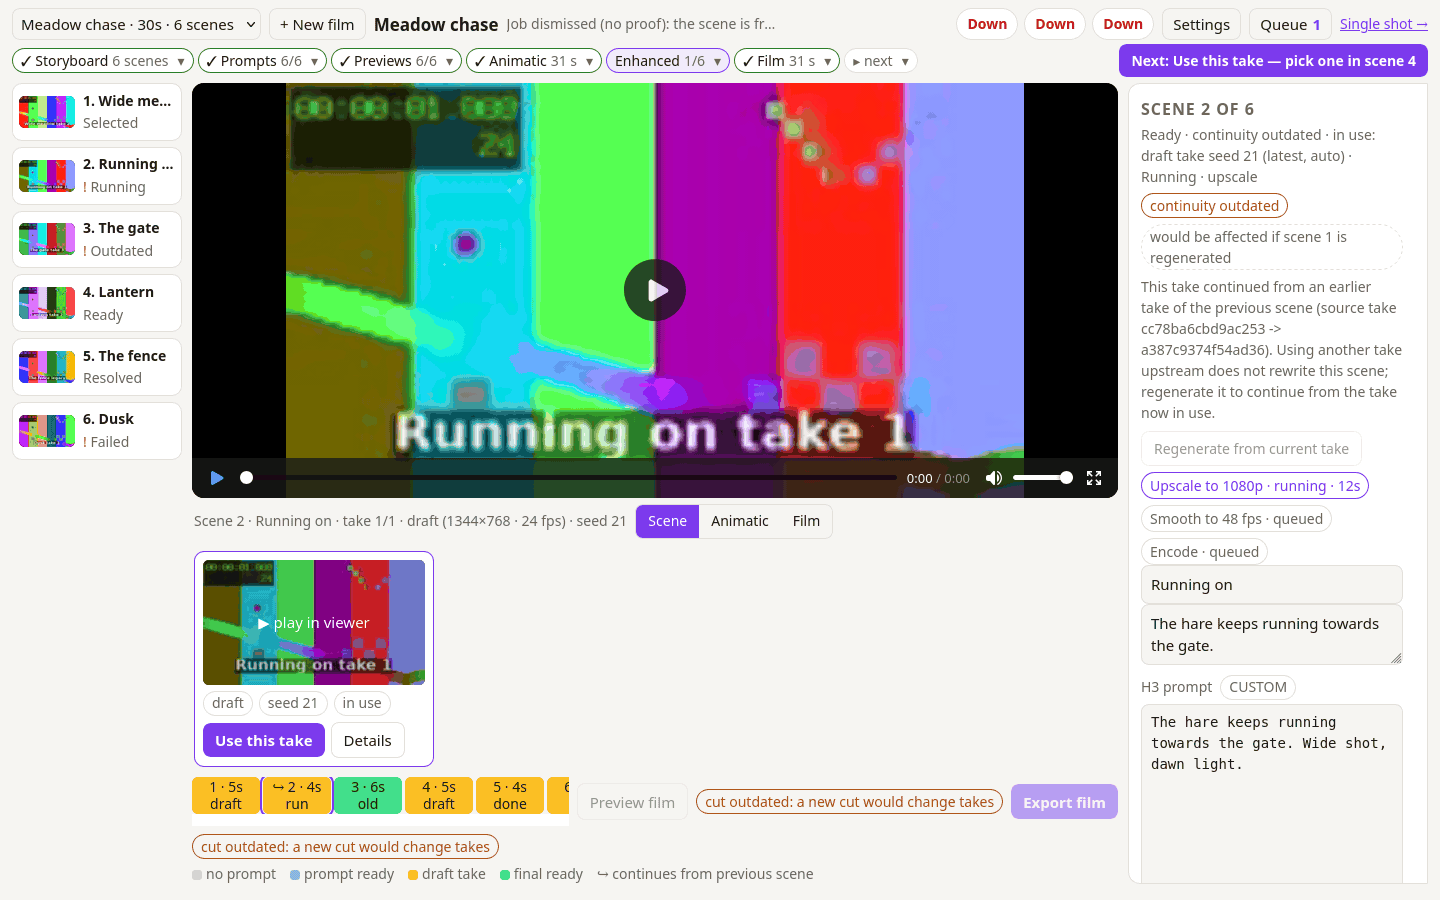
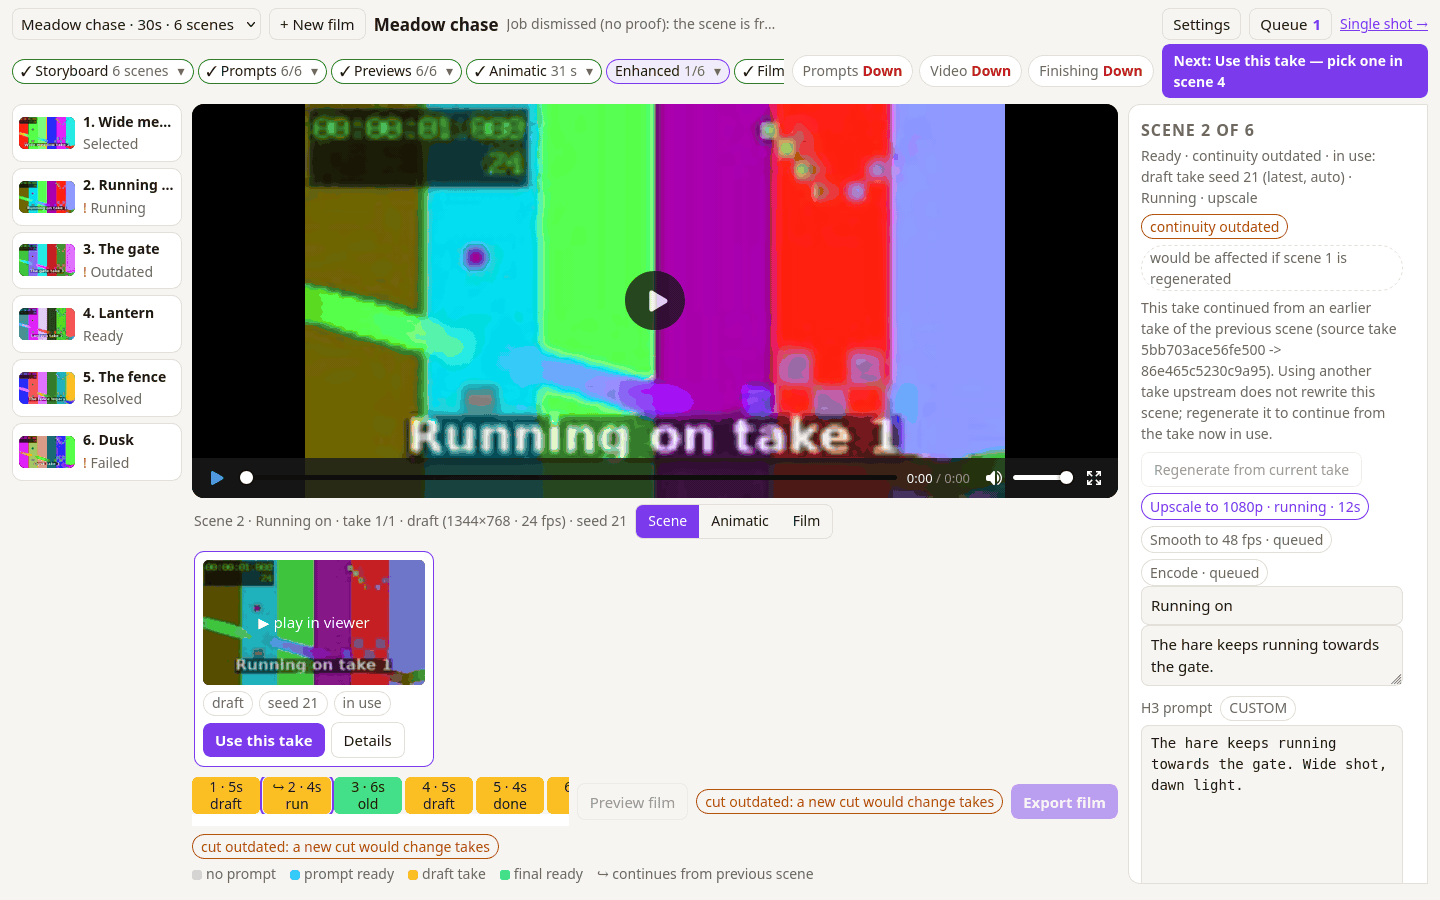
readiness: every header chip keeps its name and state word at every width

diff --git a/project.html b/project.html
@@ -166,9 +166,11 @@ main { display: grid; grid-template-columns: 170px minmax(0, 1fr) 300px; gap: 10
 #cmpDiff .badge { white-space: normal; overflow-wrap: anywhere; max-width: 100%; }
 #cmpSync { font-size: 14px; }
 
-/* the header band budget gets tight beside the three chips: they keep their state words
-   (Ready/Limited/Down) and drop the label, which aria-label and title still carry */
-@media (max-width: 1500px) { #hdr .rchip .wide { display: none; } }
+/* chips never shrink to a bare state word: below 1500 px the group rides the stage nav row
+   (placeReadiness in the script moves it) so every chip keeps name + state everywhere */
+@media (max-width: 1500px) {
+  #stages #readiness { flex: 0 0 auto; }
+}
 
 /* the chips get their own scroll window (the next action beside them never scrolls); this plus
    the tighter strip keeps the viewer >= 40% of the viewport height down to 1100 px wide */
@@ -185,6 +187,13 @@ main { display: grid; grid-template-columns: 170px minmax(0, 1fr) 300px; gap: 10
       .timeline { min-height: 32px; }
   .take .btn { padding: 0 8px; }
   #viewerInfo { padding: 2px 2px; }
+}
+/* 601-1199 px: the readiness group rides the stage row with full names, so the row must not
+   wrap the next action onto three lines - the stage chips give way and scroll instead - and
+   the header row fits the buttons only when the film name (already in the picker) stands down */
+@media (max-width: 1199px) and (min-width: 601px) {
+  #stages #nextAction { flex: 0 0 auto; }
+  #hdr #nameTitle { display: none; }
 }
 .legend i { display: inline-block; width: 10px; height: 10px; border-radius: 3px; margin-right: 4px; vertical-align: -1px; }
 
@@ -260,10 +269,10 @@ dialog::backdrop { background: rgba(0,0,0,.45); }
   #hdr #saveStatus { order: 1; flex: 1 1 0; min-height: 44px; line-height: 44px; }
   #hdr #newBtn { order: 2; } #hdr #openSettings { order: 3; } #hdr .btn-queue { order: 4; }
   #hdr .btn-shot { order: 5; }
-  /* the three chips shrink to their state words (the .wide labels hide above) and take the
-     picker's row, so the phone header stays within the two-row + stages budget */
-  #hdr #readiness { order: 1; gap: 2px; flex: 0 1 170px; min-width: 170px; }
-  #hdr .rchip { padding: 2px 6px; min-height: 44px; overflow: hidden; }
+  /* the chips keep name + state on the phone too: the name stacks over the state inside the
+     44 px pill, so they still share the picker's row and the header stays within budget */
+  #hdr #readiness { order: 1; gap: 1px; flex: 0 1 auto; }
+  #hdr .rchip { padding: 2px 1px; min-height: 44px; flex-direction: column; gap: 0; line-height: 1.15; overflow: hidden; text-align: center; }
   #hdr select { min-height: 44px; }
   #hdr .wide, #hdr .bmsg, #hdr .spacer { display: none; }
   #stages { flex-wrap: wrap; padding: 0 10px 4px; }
@@ -321,9 +330,9 @@ dialog::backdrop { background: rgba(0,0,0,.45); }
     <span class="status" id="saveStatus" role="status"></span>
     <span class="spacer"></span>
     <span id="readiness" role="status" aria-label="backend readiness">
-      <button class="rchip" id="rd-prompt" aria-expanded="false" title="Checking the prompt model"><span class="wide">Prompts: </span><span class="rstate">Checking…</span></button>
-      <button class="rchip" id="rd-video" aria-expanded="false" title="Checking ComfyUI"><span class="wide">Video: </span><span class="rstate">Checking…</span></button>
-      <button class="rchip" id="rd-finishing" aria-expanded="false" title="Checking the finishing install"><span class="wide">Finishing: </span><span class="rstate">Checking…</span></button>
+      <button class="rchip" id="rd-prompt" aria-expanded="false" title="Checking the prompt model"><span class="rname">Prompts </span><span class="rstate">Checking…</span></button>
+      <button class="rchip" id="rd-video" aria-expanded="false" title="Checking ComfyUI"><span class="rname">Video </span><span class="rstate">Checking…</span></button>
+      <button class="rchip" id="rd-finishing" aria-expanded="false" title="Checking the finishing install"><span class="rname">Finishing </span><span class="rstate">Checking…</span></button>
     </span>
     <button class="btn ghost" id="openSettings" hidden title="Project settings">Settings</button>
     <button class="btn ghost btn-queue" id="openQueue" title="Live jobs: this film first, then everything else running">Queue<span id="queueCount"></span></button>
@@ -741,7 +750,7 @@ function showNew() { $('newBox').hidden = false; $('projWrap').hidden = true; }
 function showProj() { $('newBox').hidden = true; $('projWrap').hidden = false; }
 $('picker').onchange = () => { if ($('picker').value) open($('picker').value); };
 $('newBtn').onclick = () => { slug = null; history.replaceState(null, '', '/project'); showNew(); showProjHide(); $('picker').value = ''; };
-function showProjHide() { $('projWrap').hidden = true; $('stages').hidden = true; $('batch').classList.remove('show'); }
+function showProjHide() { $('projWrap').hidden = true; $('stages').hidden = true; $('batch').classList.remove('show'); placeReadiness(); }
 
 /* ---------- new film ---------- */
 $('nSeconds').oninput = () => $('nSecondsOut').textContent = $('nSeconds').value + ' s';
@@ -856,7 +865,7 @@ async function open(s) {
   slug = s; history.replaceState(null, '', '/project?p=' + s);
   st = autosaveState(s); viewToken++;   // the old draft is dropped; in-flight responses fail asStale
   selId = null; previewRef = null; viewMode = 'scene';
-  showProj(); $('picker').value = s; $('openSettings').hidden = false; $('stages').hidden = false;
+  showProj(); $('picker').value = s; $('openSettings').hidden = false; $('stages').hidden = false; placeReadiness();
   $('nameTitle').textContent = s;
   takeOpen.clear(); takeData.clear();   // open Details panels and fetched provenance belong to the film being left
   await refresh(true);
@@ -1040,7 +1049,8 @@ function drawStages(p) {
   if (drawStages.sig === sig) { drawNext(p); return; }
   drawStages.sig = sig;
   closeStageMenu();
-  const box = $('stages'); box.replaceChildren();
+  const box = $('stages'), savedRd = $('readiness');   // the group may ride this row: save it
+  box.replaceChildren();
   const chips = el('div', {id: 'stageChips'});
   steps.forEach((s, i) => {
     const item = el('span', {class: 'stage' + (s.done ? ' done' : '') + (i === next ? ' next' : ''), title: s.t + ' — click for its action',
@@ -1057,6 +1067,7 @@ function drawStages(p) {
       el('button', {class: 'caret', 'aria-expanded': 'false', 'aria-label': 'Next step action',
         onclick: (ev) => { ev.stopPropagation(); openStageMenu(ev.currentTarget, steps[next], next, drafted, n); }}, '▾')));
   box.append(chips, el('button', {class: 'btn', id: 'nextAction'}));   // drawNext updates it in place
+  placeReadiness(savedRd);   // a rebuilt stage row must not strand the chip group
   drawNext(p);
 }
 function drawNext(p) {
@@ -1760,6 +1771,17 @@ async function loadLoras(onChange, probeOnly) {
 let RD = null, rdOpen = null;
 const RD_LABEL = {prompt: 'Prompts', video: 'Video', finishing: 'Finishing'};
 const RD_STATE = {ready: 'Ready', limited: 'Limited', unavailable: 'Down'};
+/* ≤1500 px the chip group joins the stage nav row (the header row would overflow and the
+   header budget forbids a third line); while the stage row is hidden - the new-film view -
+   the group stays in the header, where there is room. The name always travels with it. */
+const RD_NARROW = matchMedia('(max-width: 1500px) and (min-width: 601px)');
+function placeReadiness(rd) {
+  rd = rd instanceof Node ? rd : $('readiness');
+  const st = $('stages'), na = $('nextAction');
+  if (RD_NARROW.matches && !st.hidden && na) { if (rd.parentElement !== st) st.insertBefore(rd, na); }
+  else if (rd.parentElement !== $('hdr')) $('hdr').insertBefore(rd, $('openSettings'));
+}
+RD_NARROW.addEventListener('change', () => placeReadiness());
 function rdReason(kind) {
   const c = RD && RD.checks && RD.checks[kind];
   if (!c || c.level !== 'unavailable') return null;    // 'limited' warns in the chip, never disables

diff --git a/tests/browser_readiness.py b/tests/browser_readiness.py
@@ -227,6 +227,36 @@ def main():
             f'http://127.0.0.1:{WEB_PORT}/api/readiness/video?refresh=1', timeout=5).getcode()
         check('per-check refresh endpoint answers for one check', code == 200, str(code))
 
+        # every chip keeps name + state word at every desktop width (never a state-only chip)
+        NARROW_NAMES = {'prompt': 'Prompts', 'video': 'Video', 'finishing': 'Finishing'}
+        WANTED = {'prompt': 'Down', 'video': 'Ready', 'finishing': 'Down'}
+        for (w, h) in [(1920, 1080), (1440, 900), (1100, 900), (768, 900)]:
+            d.resize(w, h)
+            time.sleep(0.4)                       # let the media-query hook move the group
+            g = d.js("""const seen = [];
+                for (const k of ['prompt', 'video', 'finishing']) {
+                  const c = document.getElementById('rd-' + k);
+                  const nm = c.querySelector('.rname'), st = c.querySelector('.rstate');
+                  seen.push({k, visible: c.offsetParent !== null, nmw: nm.offsetWidth, stw: st.offsetWidth,
+                             text: c.textContent.replace(/\\s+/g, ' ').trim(),
+                             where: c.closest('#stages') ? 'stages' : 'hdr'});
+                }
+                const rd = document.getElementById('readiness');
+                const kidR = (sel) => [...document.querySelector(sel).children]
+                    .map(e => [e.id || e.className, Math.round(e.getBoundingClientRect().top),
+                               Math.round(e.getBoundingClientRect().width), Math.round(e.getBoundingClientRect().height)]);
+                return {vw: innerWidth, seen, rdw: Math.round(rd.getBoundingClientRect().width),
+                        where: seen[0].where, hdrKids: kidR('#hdr'), stKids: kidR('#stages'),
+                        hdr: Math.round(document.querySelector('header').getBoundingClientRect().height),
+                        hscroll: document.documentElement.scrollWidth <= document.documentElement.clientWidth};""")
+            okg = (g['vw'] == w and g['hscroll'] and g['hdr'] <= 110
+                   and all(s['visible'] and s['nmw'] > 0 and s['stw'] > 0
+                           and NARROW_NAMES[s['k']] in s['text'] and WANTED[s['k']] in s['text']
+                           for s in g['seen']))
+            check(f'{w} px: every chip shows name + state, header <= 110 px, no horizontal scroll',
+                  okg, json.dumps(g))
+            print(f"GEOM {w} hdr={g['hdr']} readiness={g['rdw']} group={g['where']}")
+
         # phone: headless firefox floors real windows at 500 px wide, so measure the chips in
         # an exact 390x844 iframe (the same trick browser_layout uses)
         d.resize(500, 930)
@@ -234,18 +264,32 @@ def main():
                 'src=' + JSON.stringify('http://127.0.0.1:' + arguments[1] + '/project?p=' + arguments[0]) + ' ' +
                 'style="width:390px;height:844px;border:0;display:block"></iframe></body>'); return 1;""", slug, WEB_PORT)
         d.s('POST', '/frame', {'id': d.s('POST', '/element', {'using': 'css selector', 'value': '#__f'})})
-        ok = d.wait("document.querySelectorAll('#readiness .rchip').length === 3", timeout=20)
+        ok = d.wait("['prompt', 'finishing'].every(k => document.getElementById('rd-' + k).classList.contains('down')) "
+                    "&& !document.getElementById('rd-video').classList.contains('down')", timeout=30)
         m = d.js("""window.scrollTo(0, 0);
           const chips = [...document.querySelectorAll('#readiness .rchip')];
-          return {vw: window.innerWidth,
+          const texts = chips.map(c => {
+            const k = c.id.replace('rd-', '');
+            return {k, text: c.textContent.replace(/\\s+/g, ' ').trim(),
+                    nmw: c.querySelector('.rname').offsetWidth,
+                    stw: c.querySelector('.rstate').offsetWidth};
+          });
+          return {vw: window.innerWidth, texts,
                   hdr: document.getElementById('hdr').offsetHeight + document.getElementById('stages').offsetHeight,
                   visible: chips.filter(c => c.offsetParent !== null).length,
                   heights: chips.map(c => c.getBoundingClientRect().height),
+                  rows: [...document.getElementById('hdr').children].map(e => [e.id || e.className,
+                         Math.round(e.getBoundingClientRect().top), Math.round(e.getBoundingClientRect().width)]),
                   hscroll: document.documentElement.scrollWidth <= document.documentElement.clientWidth};""")
         d.s('POST', '/frame', {'id': None})
-        check('phone 390x844: three chips visible, header budget holds, no horizontal scroll',
-              bool(ok) and m['vw'] == 390 and m['visible'] == 3 and m['hdr'] <= 190
-              and m['hscroll'] and min(m['heights']) >= 28, json.dumps(m))
+        wanted390 = {'prompt': 'Down', 'video': 'Ready', 'finishing': 'Down'}
+        ok390 = (bool(ok) and m['vw'] == 390 and m['visible'] == 3 and m['hdr'] <= 190
+                 and m['hscroll'] and min(m['heights']) >= 28
+                 and all(t['nmw'] > 0 and t['stw'] > 0 and NARROW_NAMES[t['k']] in t['text']
+                         and wanted390[t['k']] in t['text'] for t in m['texts']))
+        check('phone 390x844: chips show name + state, header budget holds, no horizontal scroll',
+              ok390, json.dumps(m))
+        print(f"GEOM 390 hdr={m['hdr']}")
     finally:
         if d: d.close()
         for p in (web, stub):

diff --git a/tests/browser_layout.py b/tests/browser_layout.py
@@ -224,7 +224,7 @@ def main():
         chips = d.js("return [...document.querySelectorAll('#readiness .rchip')].map(function (c) "
                      "{return c.textContent.replace(/\\s+/g, ' ').trim();});")
         check('readiness chips report all three checks in words',
-              chips == ['Prompts: Down', 'Video: Down', 'Finishing: Down'], str(chips))
+              chips == ['Prompts Down', 'Video Down', 'Finishing Down'], str(chips))
         d.js("""document.querySelectorAll('#navigator .navitem')[4].click();""")
         d.wait("""[...document.querySelectorAll('#scFlags .badge')].some(b => b.textContent.includes('legacy'))""")
         flags = d.js("""return [...document.querySelectorAll('#scFlags .badge')].map(b => b.textContent);""")
